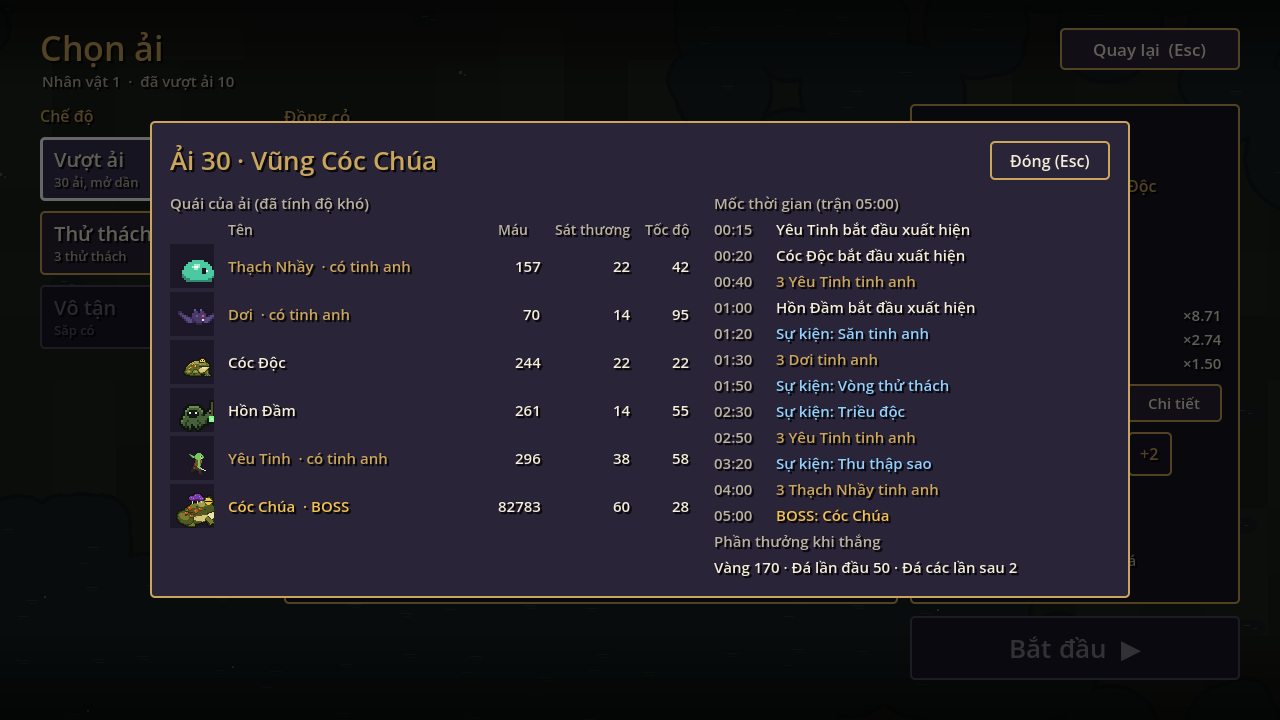
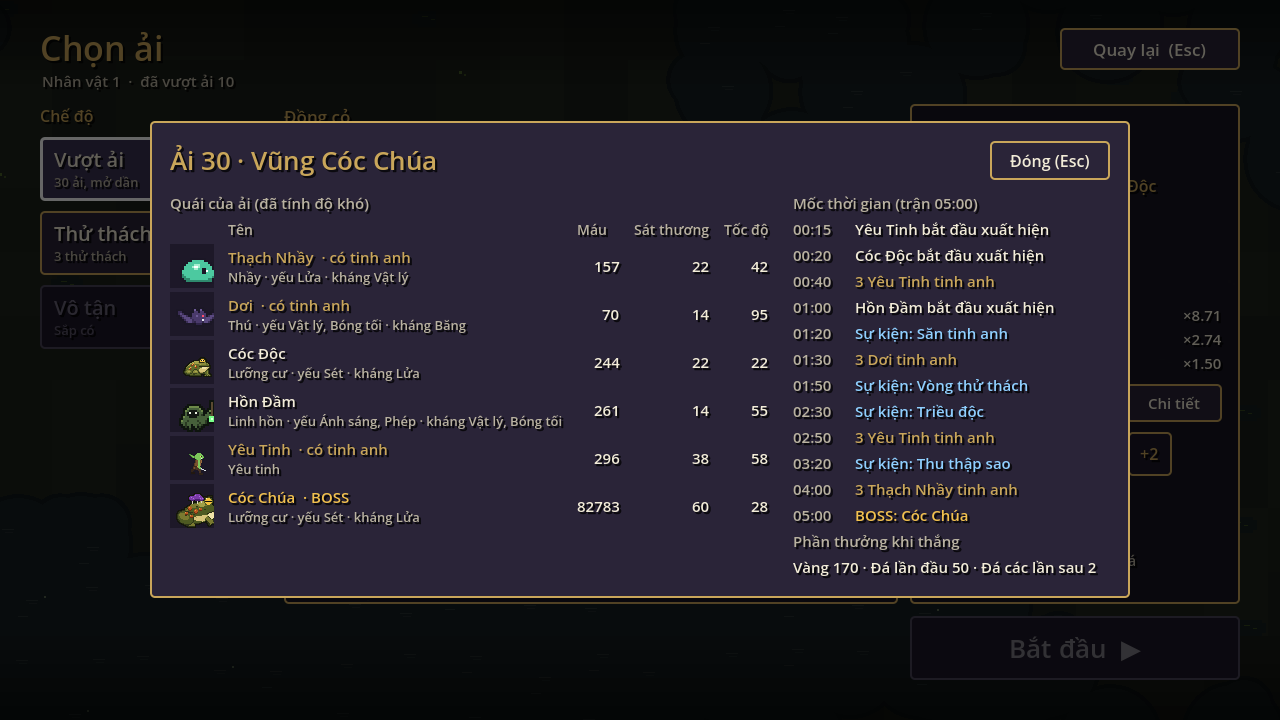
feat(ui): stage detail names each monster's species and elements
Under each monster's name: "Nhay · yeu Lua · khang Vat ly", from
species.json, so the player can plan skills for the stage.

Verified: gamekit test: 438 passed, 0 failed; ui-shots 01f2-stage-detail viewed (no overflow)
Design: design/species.md (roadmap E4)

diff --git a/production/roadmap.md b/production/roadmap.md
@@ -289,7 +289,7 @@ Trước mỗi nhóm: tham khảo ≥ 2 game cùng thể loại, ghi nguồn và
 - E2. ✅ Data `species.json`, `monsters.json` `species`, `element` cho mỗi chiêu (Thái dương xạ tạm Ánh sáng); test hợp lệ.
 - E3. Code đặc tính, mỗi cái một commit + test: ✅ hệ số yếu/kháng + số bay màu (đỏ = yếu, xám = kháng) → ✅ miễn trạng thái → ✅ Linh hồn bay
   xuyên → ✅ Nhầy hồi máu → ✅ Thú nổi điên/chảy máu → ✅ Côn trùng theo đàn/vỏ cứng → ✅ Thực vật bám rễ → ✅ Lưỡng cư.
-- E4. Bảng Chi tiết ải + Album ghi loài, hệ yếu, hệ kháng.
+- E4. ✅ (bảng Chi tiết ải; Album làm khi có màn Album) Bảng Chi tiết ải + Album ghi loài, hệ yếu, hệ kháng.
 - E5. Ánh sáng: trạng thái Thánh ấn; 2–3 phương án hiệu ứng trong Sprite Lab để chọn; áp vào Cột thánh quang.
 - E6. Bóng tối: trạng thái Ăn mòn; 2–3 phương án hiệu ứng để chọn; áp vào Cầu hư không.
 
